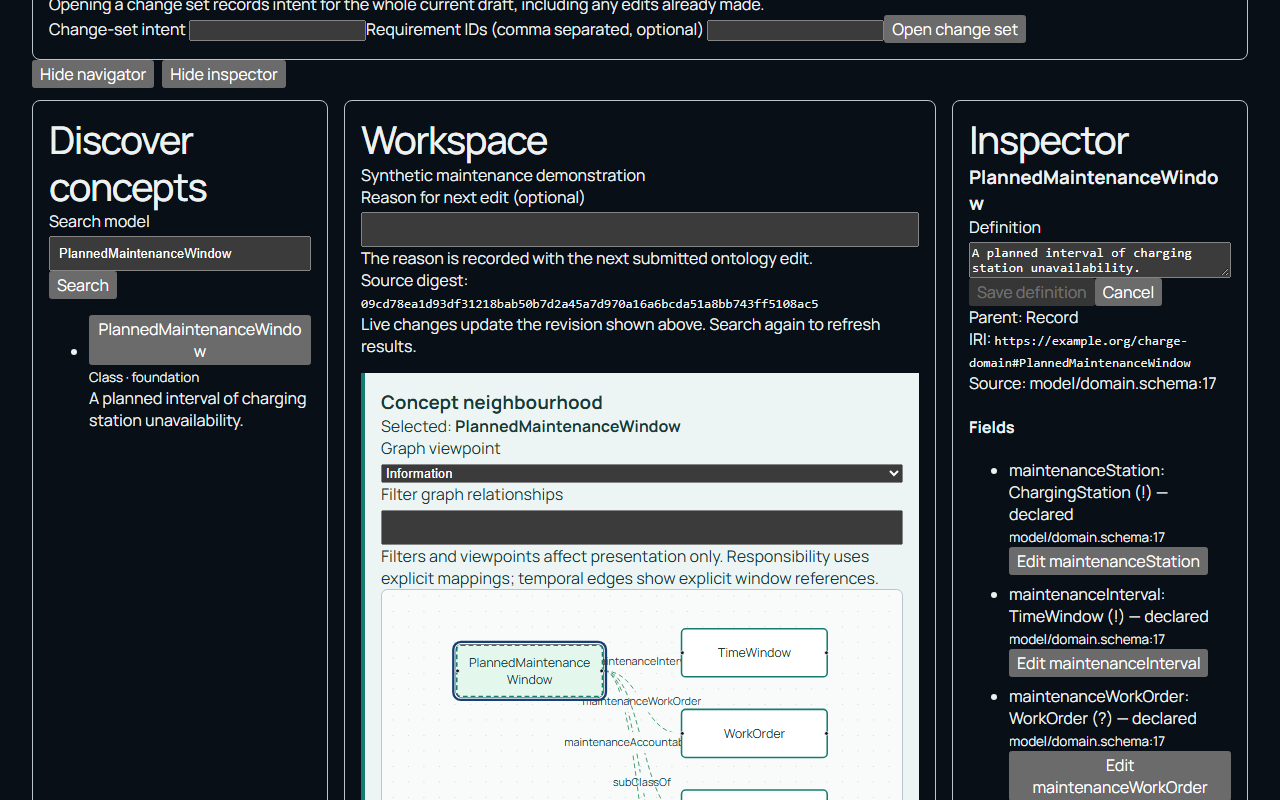
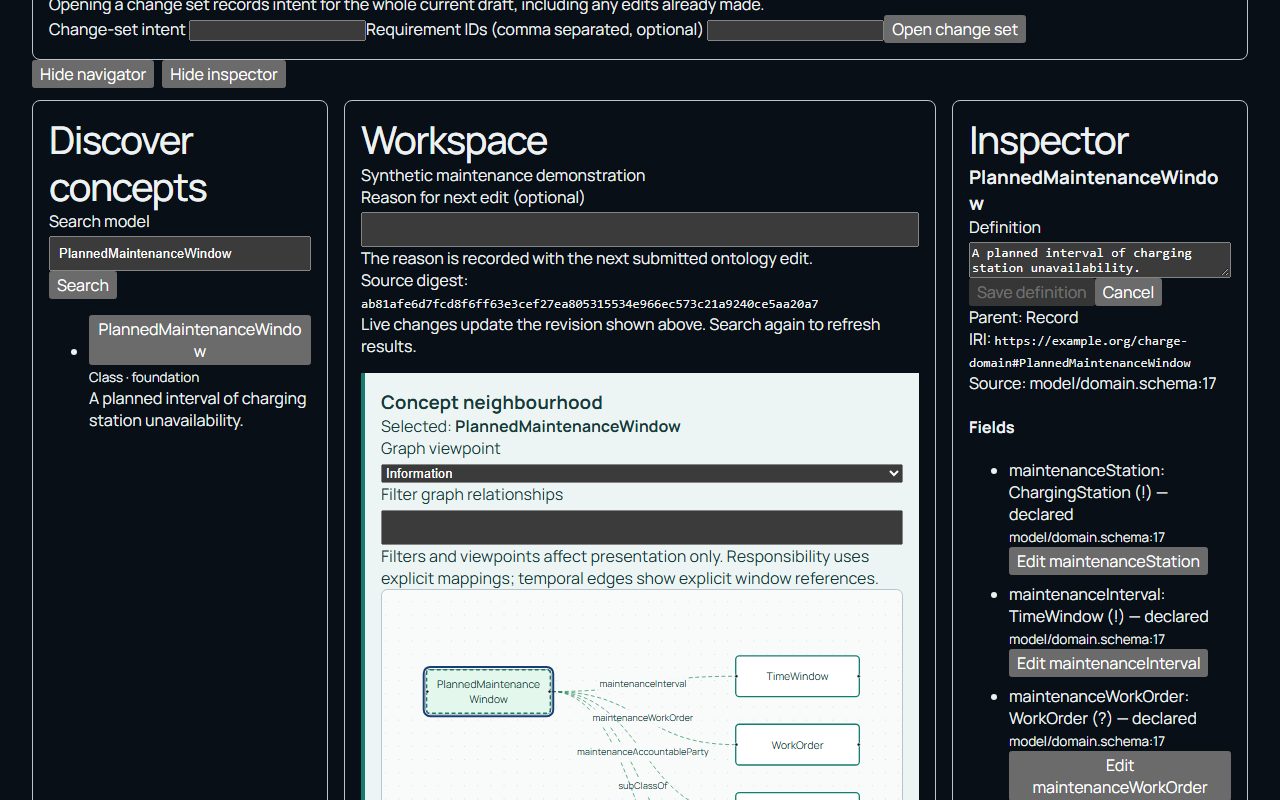
Refresh studio screen evidence after graph spacing fix
Replace the synthetic 1280 and 1920 pixel captures with views from the updated graph layout and record the exact source revision and remaining dense-graph limitations.

Reviewed both captures and verified the associated desktop browser checks. The screenshots are synthetic and do not imply publication or business acceptance.

Changed region(s): [[0.3125, 0.7812, 0.6562, 1.0], [0.2812, 0.375, 0.625, 0.4062]]

diff --git a/evidence/ontology-studio/README.md b/evidence/ontology-studio/README.md
@@ -1,5 +1,5 @@
 # Modelling studio visual review
 
-These screenshots show a synthetic maintenance proposal in the actual local studio, captured on 2026-11-02 from source commit `04a1c4d841679b523b45f5f8acd44dcf56c8a282` with headless Chromium 153.0.8010.12. The selected neighbourhood has six nodes and five edges. The 1280 × 800 and 1920 × 1080 captures show the same workspace at revision 1; the page was scrolled to the modelling panels.
+These screenshots show a synthetic maintenance proposal in the actual local studio, captured on 2026-11-02 from source commit `e03bda7b69e1bcbbada3e59fdc3b7cda4d00c72b` with headless Chromium 153.0.8010.12. The selected neighbourhood has six nodes and five edges. The 1280 × 800 and 1920 × 1080 captures show the same workspace at revision 1; the page was scrolled to the modelling panels.
 
-The screen review exposed low contrast in the light graph panel, which was corrected before capture. Labels can still overlap in dense neighbourhoods, and the full graph extends below the 1280 × 800 viewport; the relationship list remains available as an alternative. These images are synthetic UI evidence, not evidence of business completeness, real customer data, reviewer acceptance or publication.
+The screen review exposed low contrast and overlapping relationship labels in the light graph panel; contrast and initial spacing were adjusted before capture. Labels can still overlap in denser neighbourhoods, and the full graph extends below the 1280 × 800 viewport; the relationship list remains available as an alternative. These images are synthetic UI evidence, not evidence of business completeness, real customer data, reviewer acceptance or publication.
